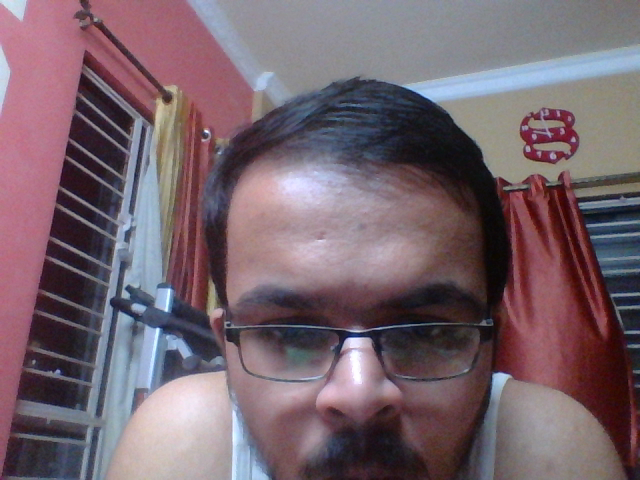
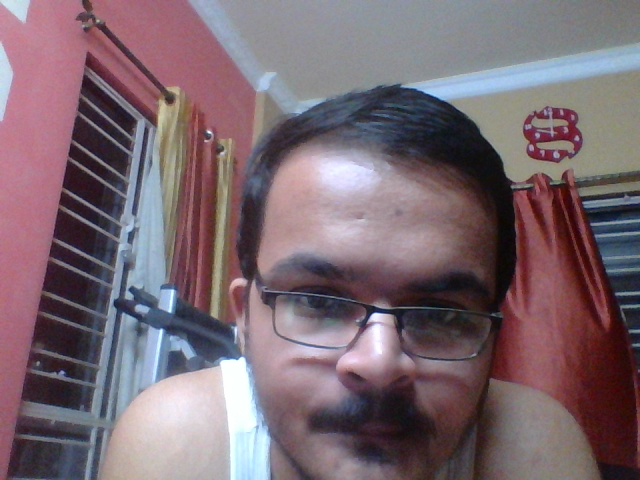
capturing frames by cv2.videoCapture() and continously displaying them via Image layout

diff --git a/Test App 2/YOLO_video.py b/Test App 2/YOLO_video.py
@@ -19,6 +19,7 @@ from kivy.lang import Builder
 # dedicated to managing multiple screens for your application. 
 from kivy.uix.screenmanager import ScreenManager, Screen
 from kivy.utils import platform
+from kivy.clock import Clock
 
 from YOLO_object_detection import YOLO_object_detect
 
@@ -41,6 +42,8 @@ Builder.load_string("""
 class ScreenOne(Screen):
 	def on_enter(self):
 		self.capture=cv2.VideoCapture(0)
+		Clock.schedule_interval(self.update, 1.0/33.0)
+	def update(self,dt):
 		if self.capture.isOpened()==True:
 			ret,frame=self.capture.read();
 			cv2.imwrite("capture.png",frame)
